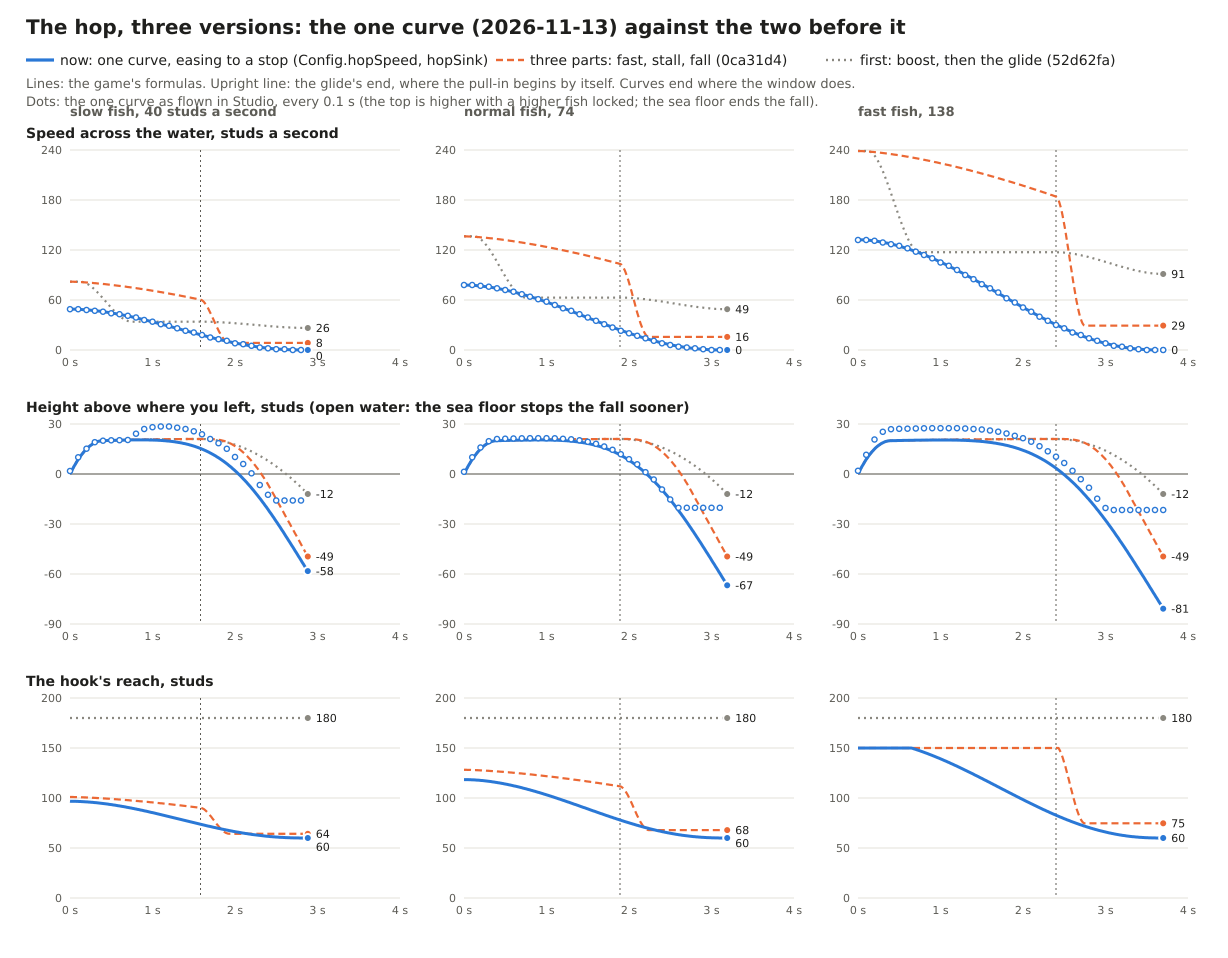
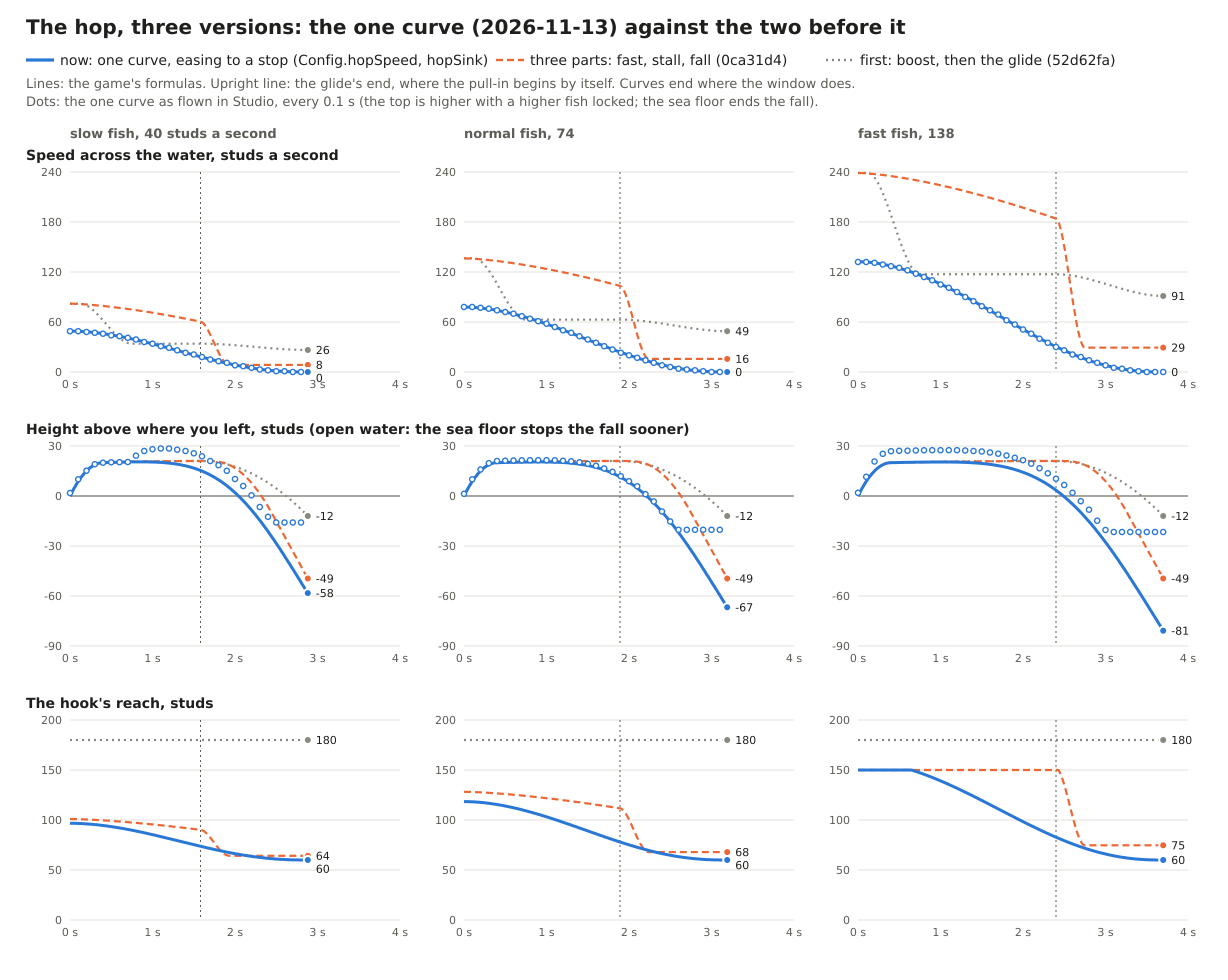
Hop picture: the caption no longer sits on the column titles (hop_curves.py, redrawn); Handoff: the h2 check of the one curve and the carry-over numbers

diff --git a/tools/movement/hop_curves.py b/tools/movement/hop_curves.py
@@ -196,7 +196,7 @@ def table():
 # ---- drawing (an SVG by hand: matplotlib isn't on this PC) ----
 INK, INK2, GRID, SURFACE = "#1f1f1d", "#5d5c56", "#e4e2da", "#ffffff"
 C_ONE, C_THREE, C_FIRST = "#2a78d6", "#eb6834", "#8a8880"
-PW, PH, GAP_X, GAP_Y, LEFT, TOP = 330, 200, 64, 74, 70, 150
+PW, PH, GAP_X, GAP_Y, LEFT, TOP = 330, 200, 64, 74, 70, 172
 ROWS = [
     ("Speed across the water, studs a second", first_speed, three_speed, one_speed),
     ("Height above where you left, studs (open water: the sea floor stops the fall sooner)", first_height, three_height, one_height),

diff --git a/docs/Handoff.md b/docs/Handoff.md
@@ -27,6 +27,13 @@ runner on grey-box 15 and the partner's new herd; **not played by hand**. Nothin
 - **To know:** a hop is about half as long as before, and you fall behind the herd in it.
   `tools/balance/model.py` and `tools/playtest/archetypes/client.luau` still model the old hop (other chats' files).
 - **Not touched:** the partner's animations, the wall glide, the camera, the props, the wait between fish.
+- **Checked after (task h2, the same day):** the code against Hugo's list, the server in step with the client
+  (`RideService` counts `Config.hopSpeed` and `reachOf` from its own clock), the logs against the note. The
+  picture's caption sat on the column titles: redrawn (`hop_curves.py`, plots moved down). On "not the full
+  speed, a slightly smaller boost": the hop left at 1.6 x the fish's speed + 18 (82, 136, 239 off a 40, 74, 138
+  fish) and leaves at 0.85 x + 15 (49, 78, 132): 85% carried, the kick 3 less, the hop a little faster than the
+  ride off slow fish and a little slower off the fastest. Left there: lower and a normal fish's hop is slower
+  than the ride, which is no boost. `Jump.Launch` is the one number if Hugo wants less carried still.
 
 ## 2026-11-13 · a NULLROOM worker (Hugo's PC): Hugo's Studio place rebuilt after a crash, and now on disk
 **State:** Hugo's Studio is open again on the Ride a Fish place, in Edit, and **the place is on disk**. No game
